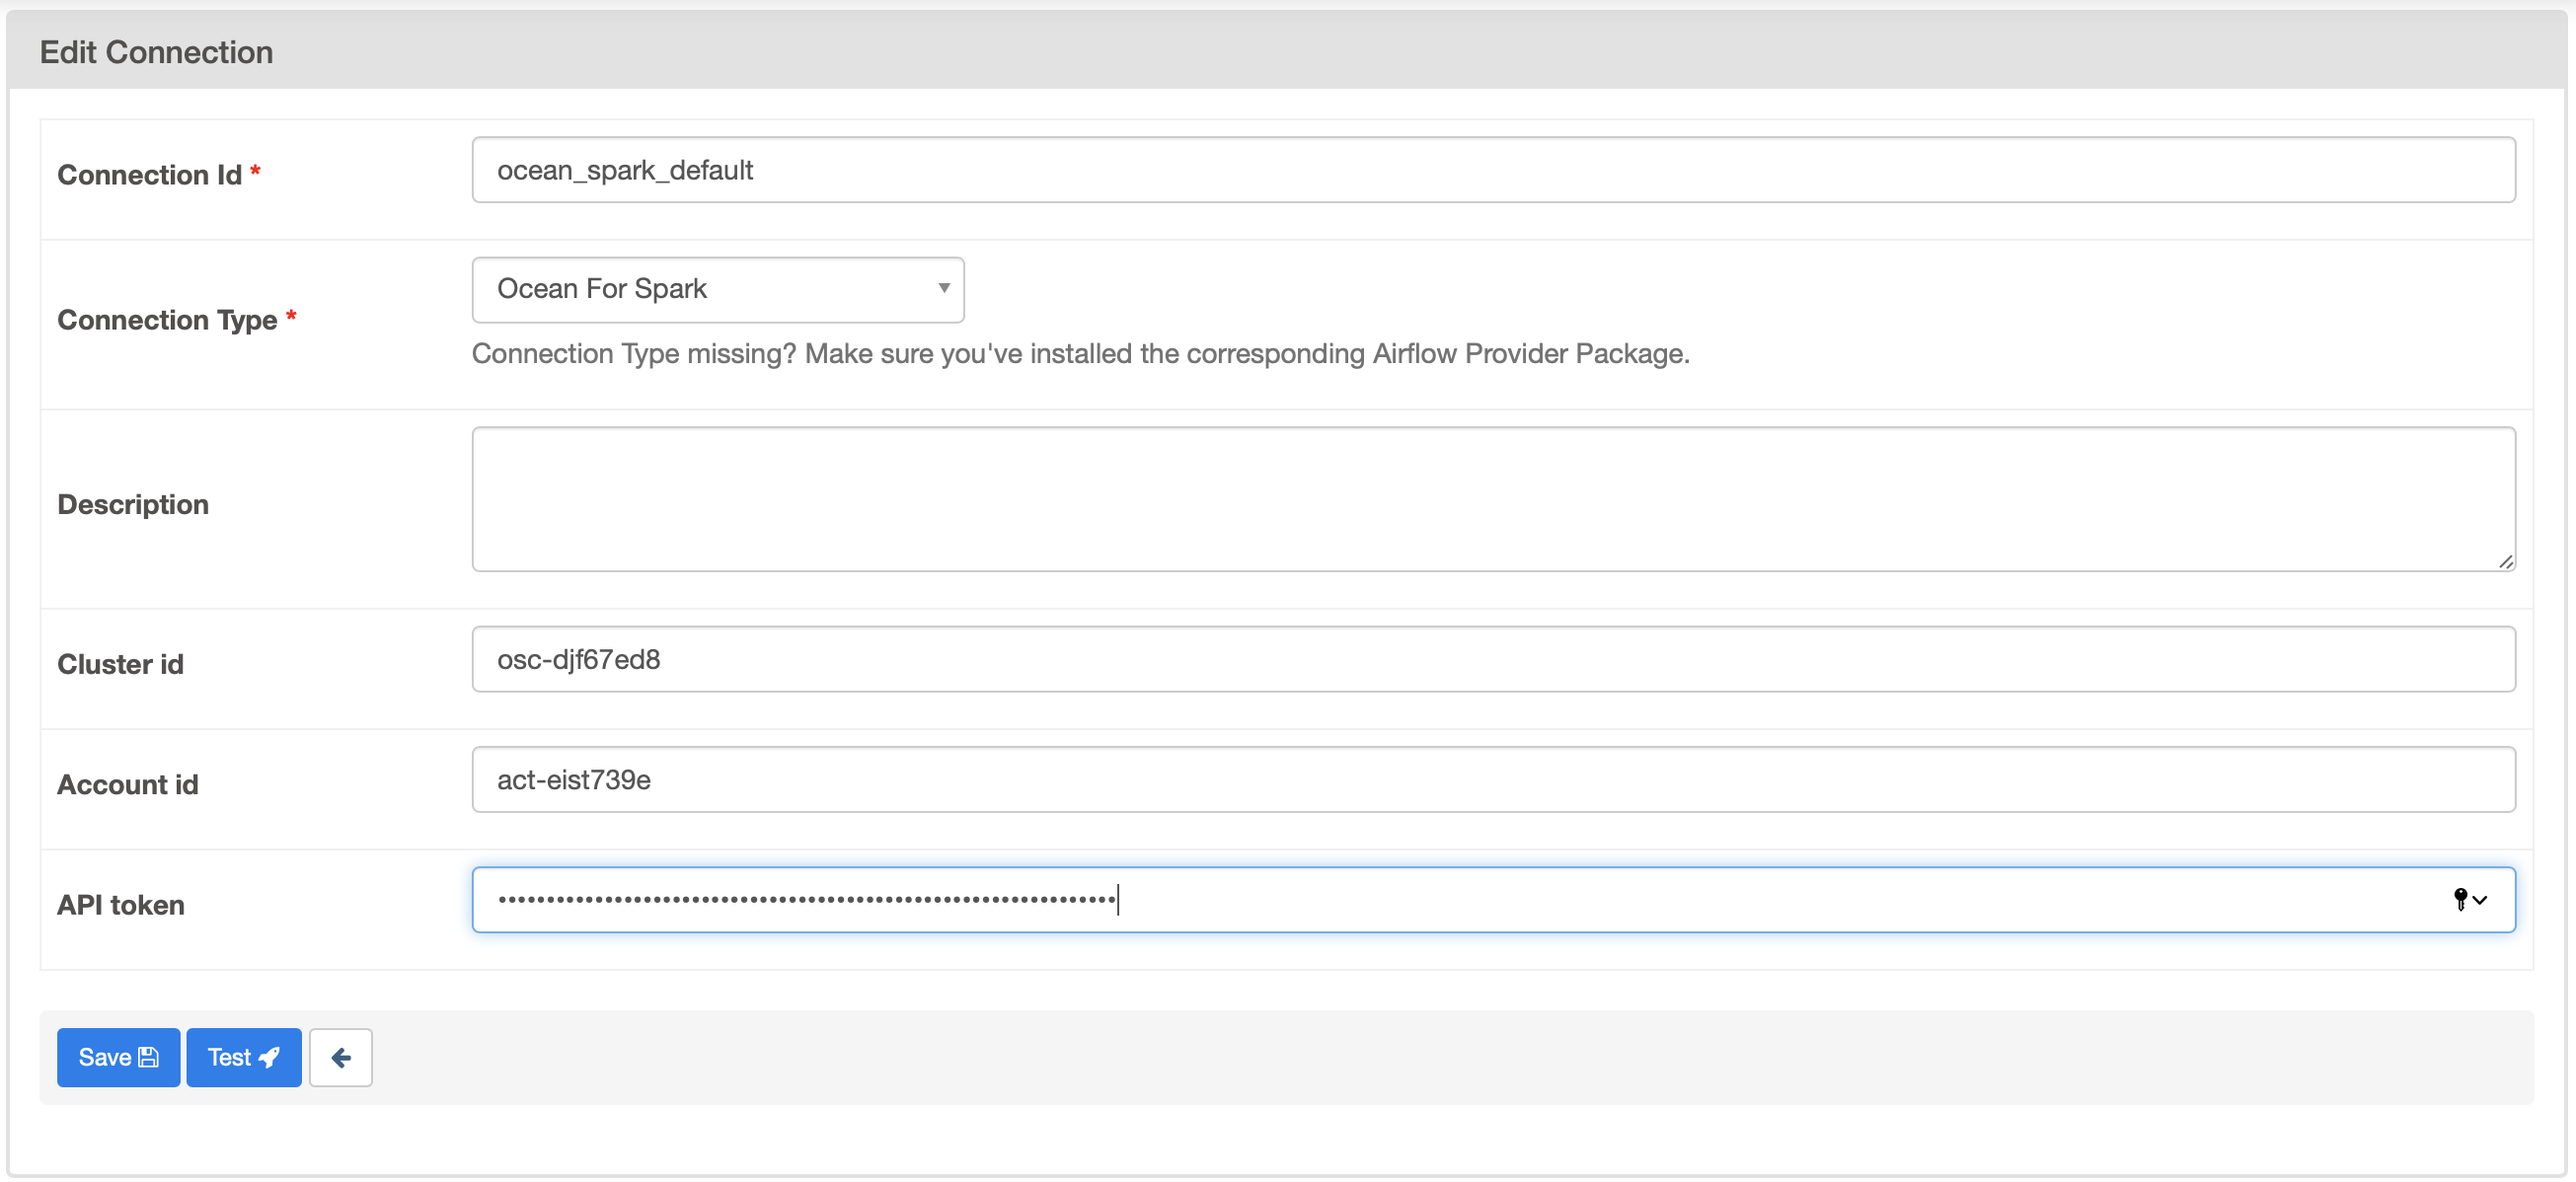
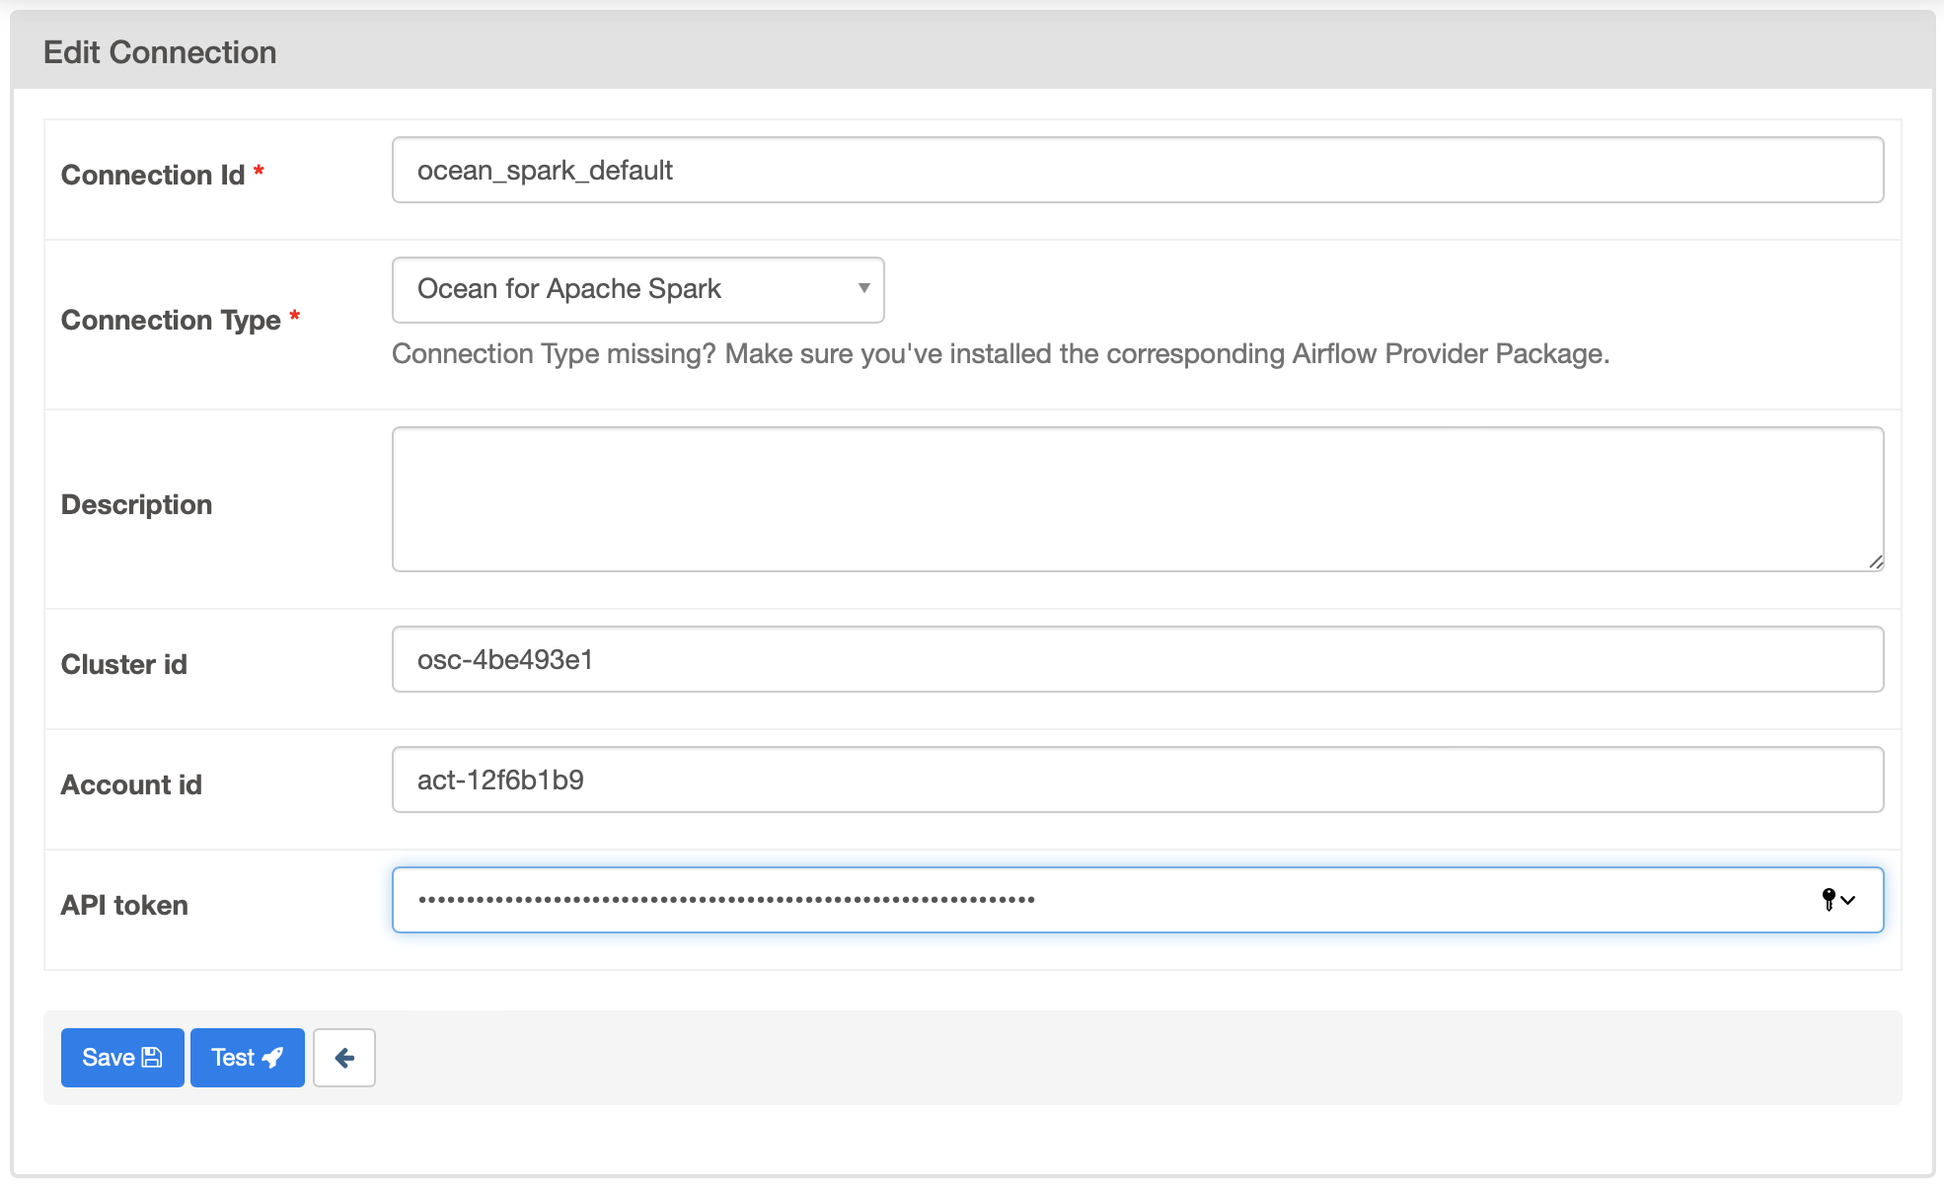
wording changes in documentation and strings

diff --git a/ocean_spark/__init__.py b/ocean_spark/__init__.py
@@ -12,7 +12,7 @@ def get_provider_info() -> Dict:
         ],
         "package-name": "ocean-spark-airflow-provider",
         "name": "Ocean for Spark Airflow Provider",
-        "description": "TODO(crezvoy): add description",
+        "description": "Apache Airflow connector for Ocean for Apache Spark",
         "hook-class-names": ["ocean_spark.hooks.OceanSparkHook"],
         "connection-types": [
             {

diff --git a/ocean_spark/hooks.py b/ocean_spark/hooks.py
@@ -43,7 +43,7 @@ class OceanSparkHook(BaseHook):
     conn_name_attr: str = "ocean_spark_conn_id"
     default_conn_name: str = "ocean_spark_default"
     conn_type: str = "ocean_spark"
-    hook_name: str = "Ocean For Spark"
+    hook_name: str = "Ocean for Apache Spark"
 
     def __init__(
         self,

diff --git a/README.md b/README.md
@@ -24,7 +24,7 @@ documentation](https://docs.spot.io/ocean-spark/getting-started/?id=get-started-
 
 ### Setting up the connection
 
-In the connection menu, register a new connection of type **Ocean For
+In the connection menu, register a new connection of type **Ocean for
 Apache Spark**. The default connection name is `ocean_spark_default`. You will
 need to have:
 
@@ -40,7 +40,7 @@ need to have:
  
 ![connection setup dialog](./images/connection_setup.png) 
 
-The **Ocean For Apache Spark** connection type is not available for Airflow
+The **Ocean for Apache Spark** connection type is not available for Airflow
 1, instead create an **HTTP** connection and fill your cluster id as
 **host**, and your API token as **password**.
 
